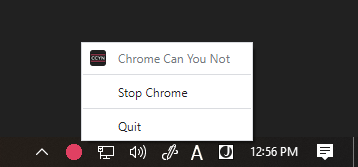
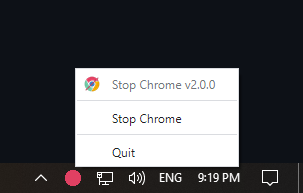
update assets

diff --git a/src/main.ts b/src/main.ts
@@ -34,6 +34,7 @@ type task = {
 // ----- main ---------------
 
 const name: string = "Stop Chrome";
+const version: string = "2.0.0";
 
 const icon : string = path.join(__dirname, "../", "icon.png");
 const green: string = path.join(__dirname, "../", "state_green.png");
@@ -57,7 +58,7 @@ abstract class Main {
             Main.tray.on("click", () => Main.tray.popUpContextMenu());
             Main.tray.setContextMenu(Main.menu = Menu.buildFromTemplate([
                 {
-                    label: name,
+                    label: `${name} v${version}`,
                     type: "normal",
                     icon: nativeImage.createFromPath(icon).resize({width: 16, height: 16}),
                     enabled: false

diff --git a/README.md b/README.md
@@ -38,9 +38,9 @@ Stop Chrome is a desktop application that displays an indicator in the system tr
 </table>
 <!-- GitHub Copilot Disclaimer -->
 
-- Build using `npm run build` or `npm run prepare`. Make sure to run `npm run rebuild` first.
-- Test builds using `npm run start:dev`
-- Package builds using `npm run make`
+ - Build using `npm run build` or `npm run prepare`. Make sure to run `npm run rebuild` first.
+ - Test builds using `npm run start:dev`
+ - Package builds using `npm run make`
 
 ### License
 
